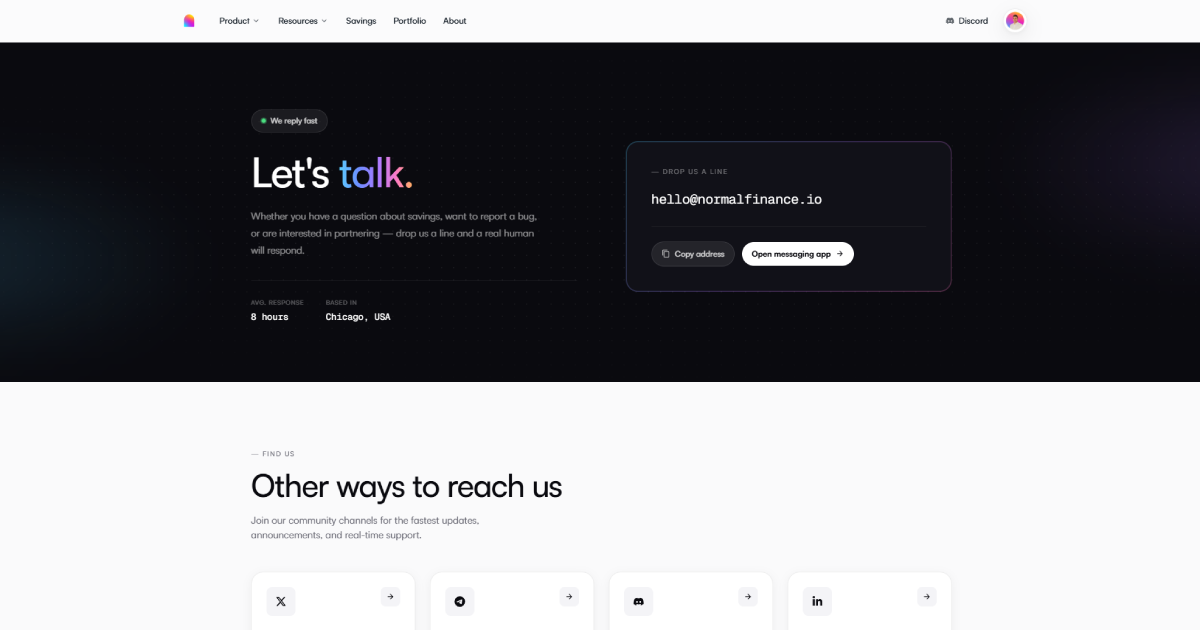
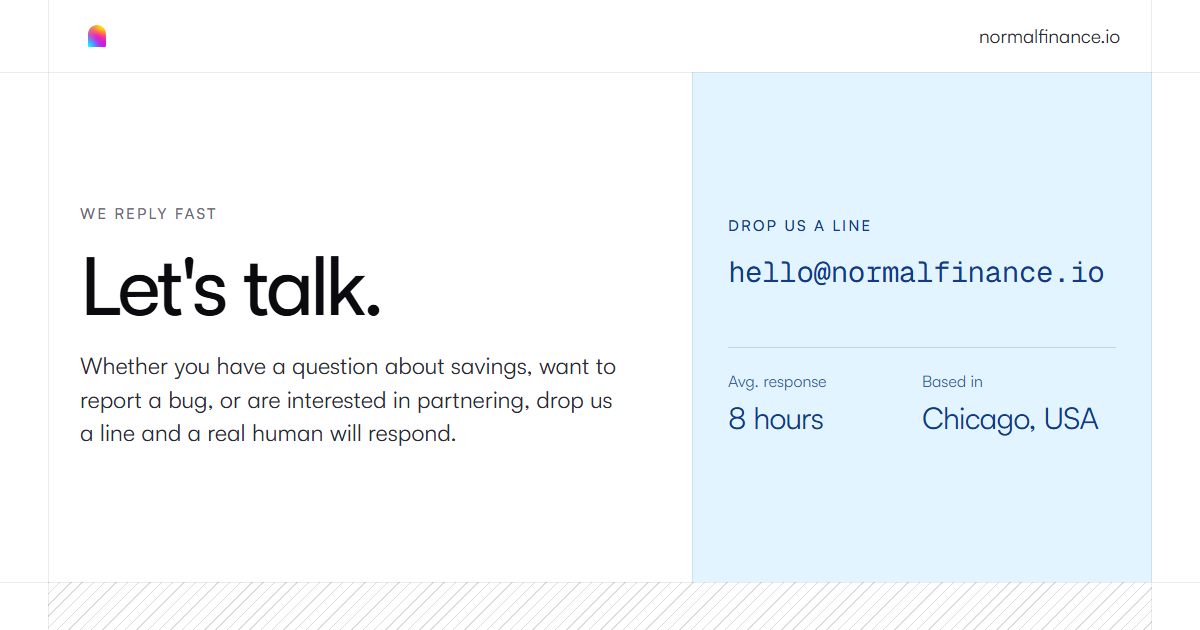
feat(site): share images in the site's style
Redraws the Open Graph images in public/og to match the site: frame
lines, the hero's split, the striped foot, real photos and real app
screens. Adds images for /roadmap and /dashboard (the dashboard had
none), fixes Swap's share text (it named only XLM and USDC) and points
Swap's and Savings' share links at /app/swap and /app/savings.

diff --git a/packages/web/src/app/(wallet)/app/swap/page.tsx b/packages/web/src/app/(wallet)/app/swap/page.tsx
@@ -1,6 +1,7 @@
 import type { Metadata } from 'next';
 
 import SwapView from '@/sections/swap';
+import { paths } from '@/routes/paths';
 import { CONFIG } from '@/global-config';
 
 // ----------------------------------------------------------------------
@@ -10,21 +11,23 @@ export const metadata: Metadata = {
     default: 'Swap | Normal',
     template: '%s · Normal',
   },
-  description: 'Swap XLM and USDC instantly on Normal.',
+  description:
+    'Swap between digital dollars, Bitcoin, Ethereum, Solana and Stellar. It all lands in your own wallet.',
   alternates: {
     canonical: '/swap',
   },
   openGraph: {
     title: 'Swap | Normal',
-    description: 'Swap XLM and USDC instantly on Normal.',
-    url: `${CONFIG.siteUrl}/swap`,
+    description:
+      'Swap between digital dollars, Bitcoin, Ethereum, Solana and Stellar. It all lands in your own wallet.',
+    url: `${CONFIG.siteUrl}${paths.swap}`,
     siteName: 'Normal',
     images: [
       {
         url: '/og/swap.png',
         width: 1200,
         height: 630,
-        alt: 'Normal Swap',
+        alt: 'Swap with low fees. The swap in the Normal app.',
       },
     ],
     locale: 'en_US',
@@ -33,7 +36,8 @@ export const metadata: Metadata = {
   twitter: {
     card: 'summary_large_image',
     title: 'Swap | Normal',
-    description: 'Swap XLM and USDC instantly on Normal.',
+    description:
+      'Swap between digital dollars, Bitcoin, Ethereum, Solana and Stellar. It all lands in your own wallet.',
     images: ['/og/swap.png'],
   },
   robots: {

diff --git a/packages/web/src/app/(wallet)/app/savings/page.tsx b/packages/web/src/app/(wallet)/app/savings/page.tsx
@@ -1,5 +1,6 @@
 import type { Metadata } from 'next';
 
+import { paths } from '@/routes/paths';
 import { CONFIG } from '@/global-config';
 import SavingsView from '@/sections/savings';
 
@@ -17,14 +18,14 @@ export const metadata: Metadata = {
   openGraph: {
     title: 'Savings | Normal',
     description: 'Earn yield on your USDC savings with Normal.',
-    url: `${CONFIG.siteUrl}/savings`,
+    url: `${CONFIG.siteUrl}${paths.savings}`,
     siteName: 'Normal',
     images: [
       {
         url: '/og/savings.png',
         width: 1200,
         height: 630,
-        alt: 'Normal Savings',
+        alt: 'Earn on your digital dollars. Savings in the Normal app.',
       },
     ],
     locale: 'en_US',

diff --git a/packages/web/src/app/(site)/roadmap/page.tsx b/packages/web/src/app/(site)/roadmap/page.tsx
@@ -23,10 +23,10 @@ export const metadata: Metadata = {
     siteName: 'Normal',
     images: [
       {
-        url: '/og/home.png',
+        url: '/og/roadmap.png',
         width: 1200,
         height: 630,
-        alt: 'Normal Roadmap overview',
+        alt: "Where we're headed next. Normal's roadmap.",
       },
     ],
     locale: 'en_US',
@@ -37,7 +37,7 @@ export const metadata: Metadata = {
     title: 'Roadmap | Normal',
     description:
       'See what’s next on the Normal roadmap – new features, DeFi integrations, and savings yield improvements.',
-    images: ['/og/home.png'],
+    images: ['/og/roadmap.png'],
   },
   robots: {
     index: true,

diff --git a/packages/web/src/app/(site)/dashboard/page.tsx b/packages/web/src/app/(site)/dashboard/page.tsx
@@ -19,7 +19,22 @@ export const metadata: Metadata = {
     description: 'Normal in numbers, refreshed daily.',
     url: `${CONFIG.siteUrl}/dashboard`,
     siteName: 'Normal',
+    images: [
+      {
+        url: '/og/dashboard.png',
+        width: 1200,
+        height: 630,
+        alt: 'Normal in numbers. The dashboard, updated daily.',
+      },
+    ],
+    locale: 'en_US',
     type: 'website',
+  },
+  twitter: {
+    card: 'summary_large_image',
+    title: 'Dashboard | Normal',
+    description: 'Normal in numbers, refreshed daily.',
+    images: ['/og/dashboard.png'],
   },
   robots: {
     index: false,

diff --git a/packages/web/src/app/(site)/about/page.tsx b/packages/web/src/app/(site)/about/page.tsx
@@ -24,7 +24,7 @@ export const metadata: Metadata = {
         url: '/og/about.png',
         width: 1200,
         height: 630,
-        alt: 'Normal – About Us',
+        alt: 'Making crypto normal. The Normal team at Meridian 2026 in Lisbon.',
       },
     ],
     locale: 'en_US',

diff --git a/packages/web/src/app/(site)/page.tsx b/packages/web/src/app/(site)/page.tsx
@@ -24,7 +24,7 @@ export const metadata: Metadata = {
         url: '/og/home.png',
         width: 1200,
         height: 630,
-        alt: 'Normal landing page',
+        alt: 'Crypto, made normal. The Normal app on a phone.',
       },
     ],
     locale: 'en_US',

diff --git a/packages/web/src/app/layout.tsx b/packages/web/src/app/layout.tsx
@@ -46,7 +46,7 @@ export const metadata: Metadata = {
         url: '/og/home.png',
         width: 1200,
         height: 630,
-        alt: 'Normal overview',
+        alt: 'Crypto, made normal. The Normal app on a phone.',
       },
     ],
     locale: 'en_US',

diff --git a/packages/web/src/app/(site)/contact/page.tsx b/packages/web/src/app/(site)/contact/page.tsx
@@ -22,7 +22,7 @@ export const metadata: Metadata = {
         url: '/og/contact.png',
         width: 1200,
         height: 630,
-        alt: 'Normal – Contact',
+        alt: "Let's talk. hello@normalfinance.io",
       },
     ],
     locale: 'en_US',
